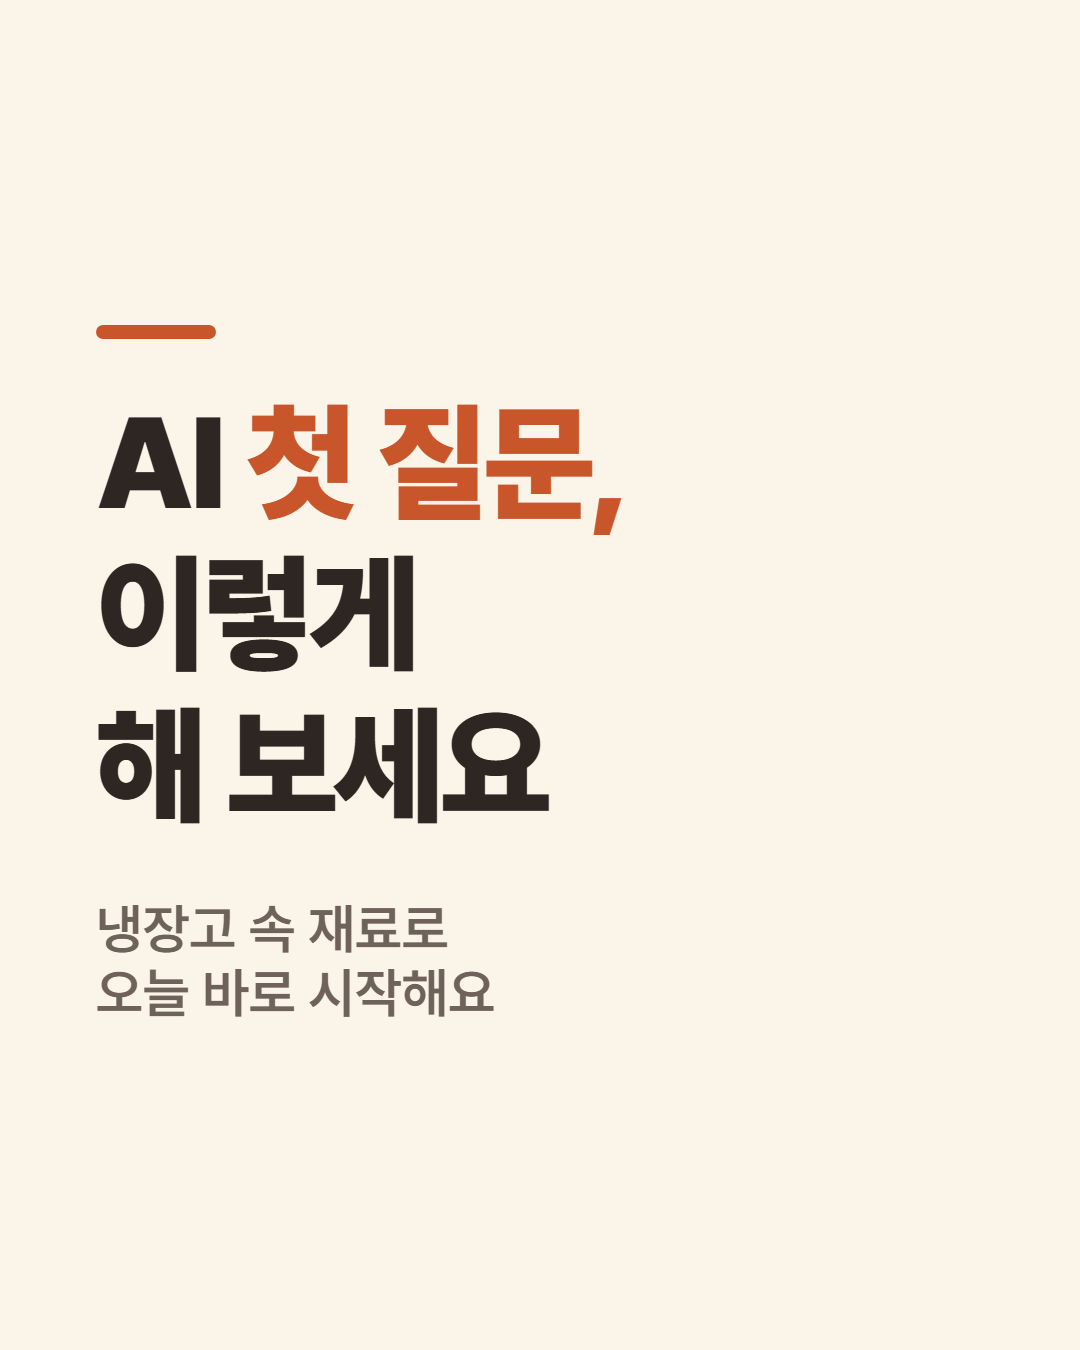
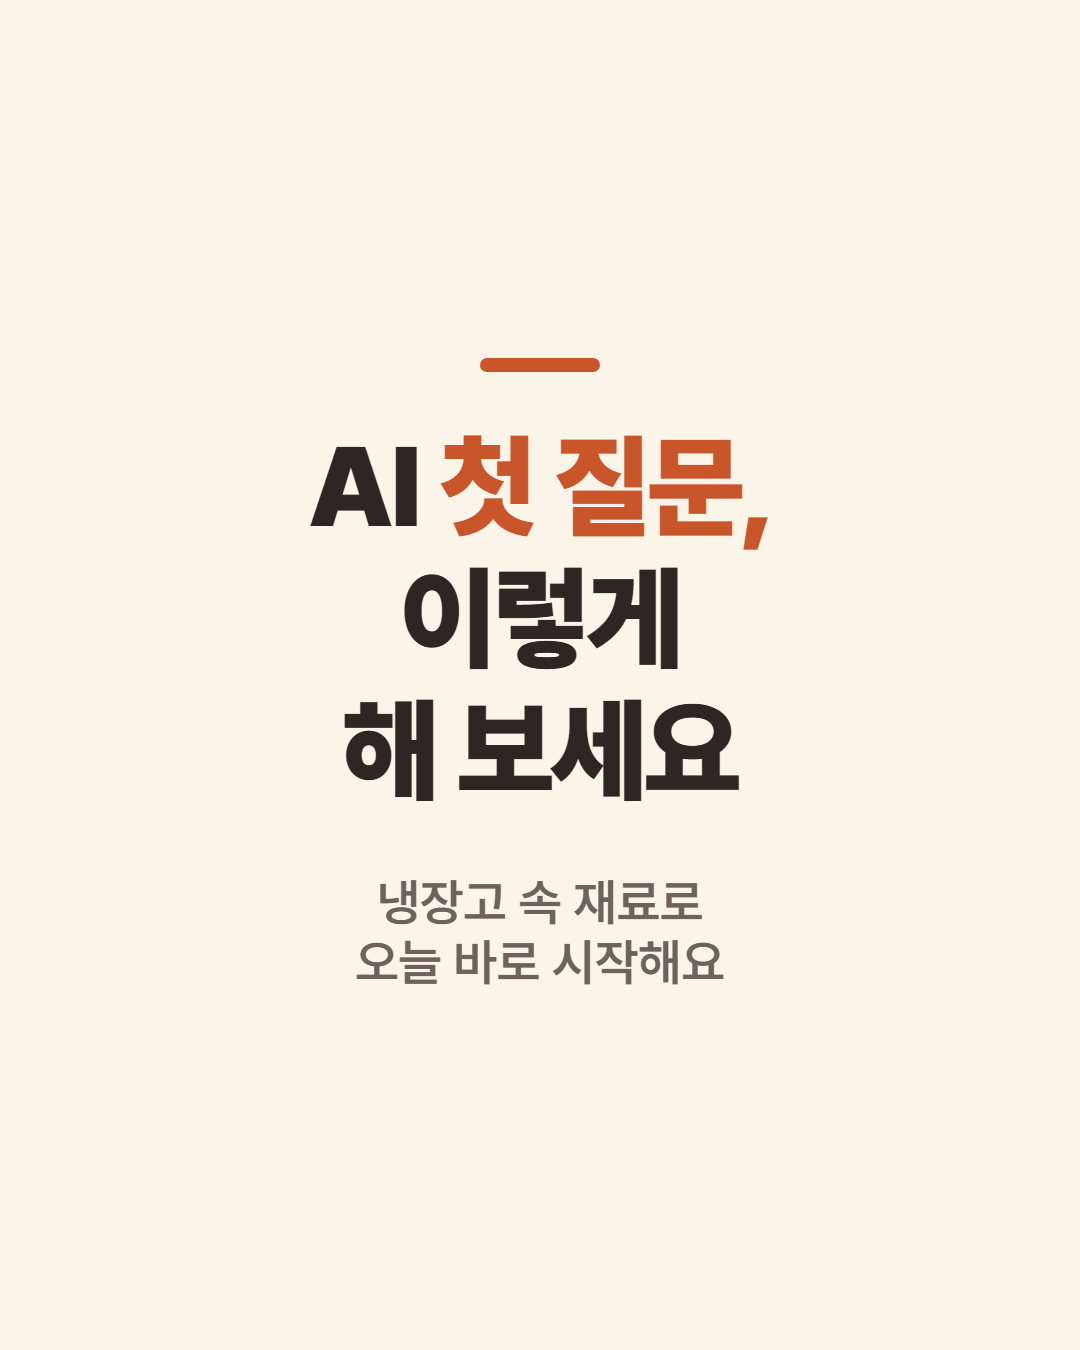
캐러셀 표지 잘림 수정: 프로필 3:4 화면에서도 보이게 글자를 가운데로 모음

Changed region(s): [[0.0917, 0.2489, 0.7028, 0.6222], [0.0917, 0.6533, 0.6722, 0.7778], [0.0917, 0.2178, 0.2139, 0.2489]]

diff --git a/carousel/2026-10-21-AI첫질문/slides.html b/carousel/2026-10-21-AI첫질문/slides.html
@@ -28,7 +28,9 @@
   .bar { width: 120px; height: 14px; background: var(--accent); border-radius: 7px; margin-bottom: 48px; }
   h1 { font-weight: 900; font-size: 96px; line-height: 1.18; letter-spacing: -0.03em; }
   h1 em { font-style: normal; color: var(--accent); }
-  .cover h1 { font-size: 128px; }
+  .cover { padding: 210px 190px; align-items: center; text-align: center; }
+  .cover h1 { font-size: 112px; }
+  .cover .sub { font-size: 50px; }
   p { font-weight: 400; font-size: 48px; line-height: 1.5; letter-spacing: -0.01em; margin-top: 48px; color: var(--ink); }
   p b { font-weight: 700; }
   .sub { font-weight: 600; font-size: 54px; color: var(--muted); margin-top: 56px; }
